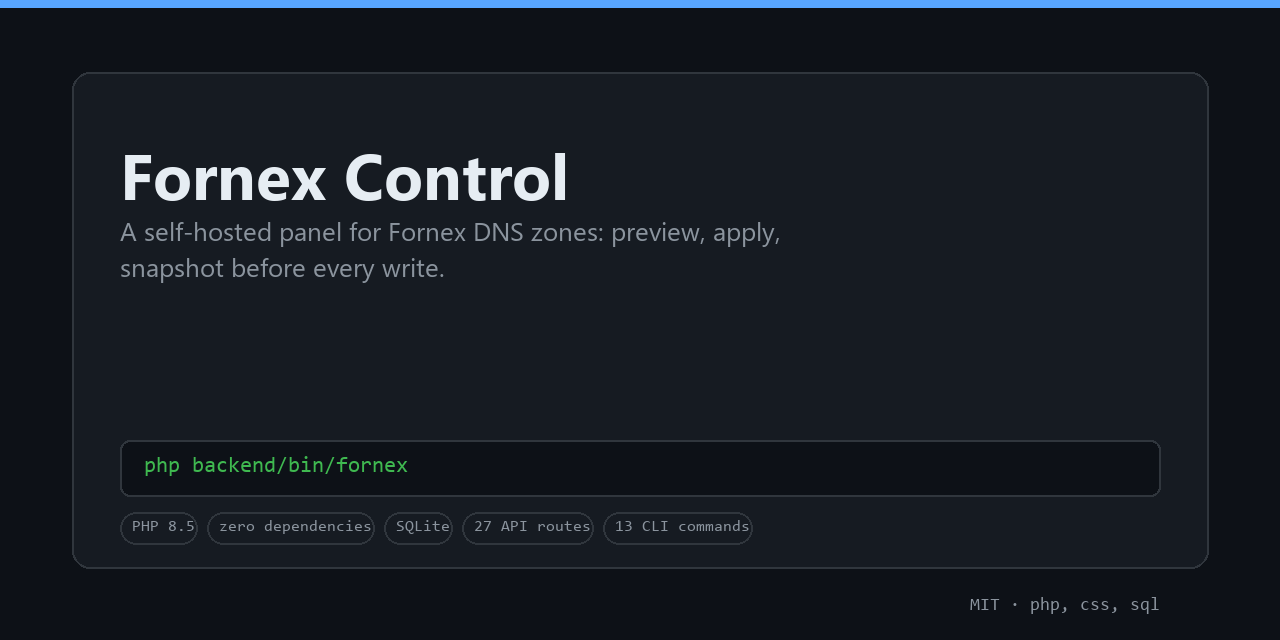
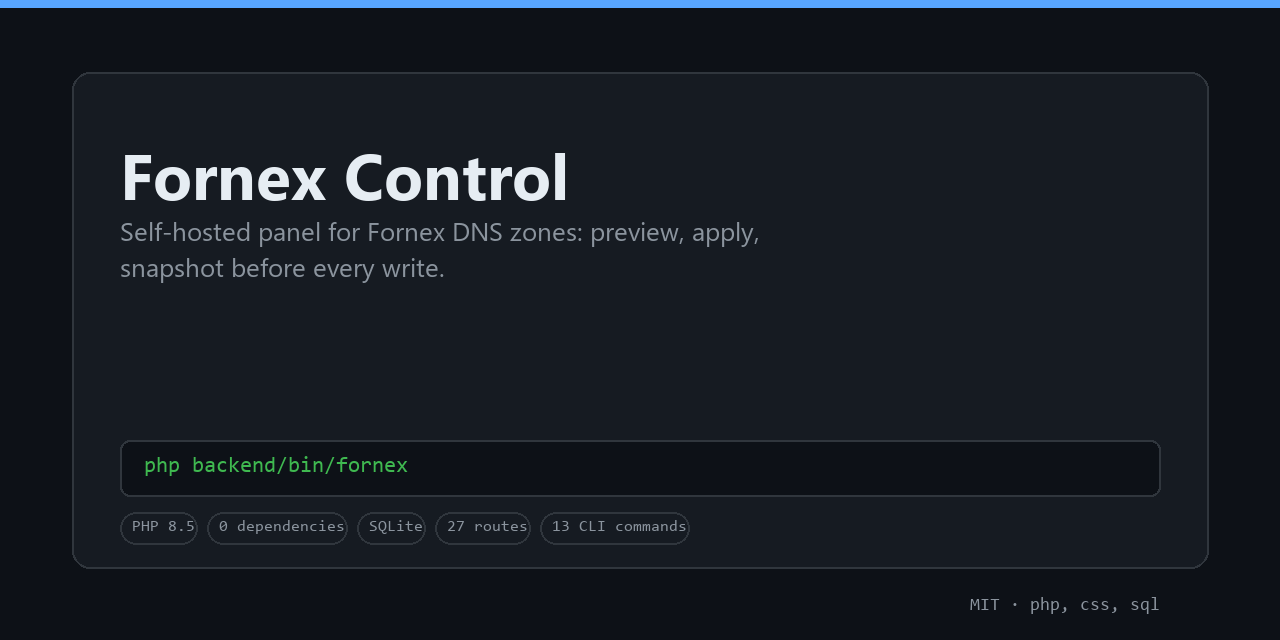
docs: publish the wiki and link it from both READMEs
13 pages in Russian built with ghagent wiki build, sidebar and footer generated from wiki/wiki.json. The banner and social preview were re-rendered by ghagent assets render.

Changed region(s): [[0.1562, 0.7812, 0.5938, 0.875], [0.0938, 0.3438, 0.5938, 0.375]]

diff --git a/CHANGELOG.md b/CHANGELOG.md
@@ -7,6 +7,13 @@ and this project adheres to [Semantic Versioning](https://semver.org/spec/v2.0.0
 
 ## [Unreleased]
 
+### Added
+
+- Wiki published at <https://github.com/paulmann/fornex-control/wiki>: 13 pages in Russian
+  (why it exists, installation, configuration, architecture, API, CLI, mail presets, security,
+  operations, troubleshooting, development, FAQ) with a generated sidebar and footer; sources
+  live in `wiki/` and are built with `ghagent wiki build`.
+
 ### Changed
 
 - README: the summary paragraph now sits directly after the H1 and the language switcher

diff --git a/README.md b/README.md
@@ -241,6 +241,7 @@ letter case, which DNS treats as the same host.
 
 | Document | Contents |
 |---|---|
+| [Wiki](https://github.com/paulmann/fornex-control/wiki) | long-form guides in Russian, 15 pages; sources in [`wiki/`](wiki/wiki.json) |
 | [`docs/ARCHITECTURE.md`](docs/ARCHITECTURE.md) | kernel, services, request flow, where the rules live |
 | [`docs/API.md`](docs/API.md) | every route, auth, CSRF, error shapes |
 | [`docs/CLI.md`](docs/CLI.md) | every command and its keys |
